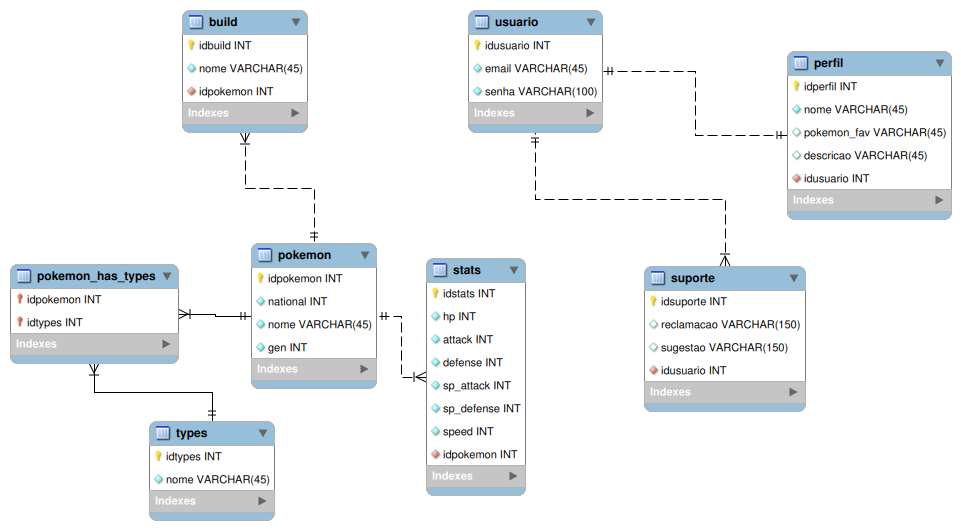
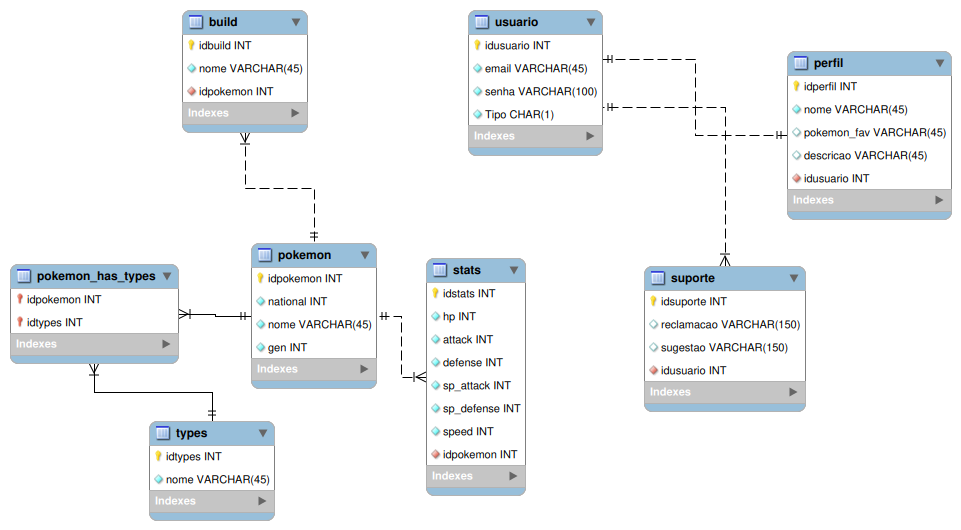
Adicionei o campo tipo no banco

Changed region(s): [[0.4683, 0.1811, 0.6556, 0.3019], [0.6243, 0.0906, 0.6556, 0.1509]]

diff --git a/pokedex atualizada/codigo/insertPokemon.php b/pokedex atualizada/codigo/insertPokemon.php
@@ -1,168 +1,3 @@
--- MySQL Script generated by MySQL Workbench
--- qui 12 jun 2025 10:21:16
--- Model: New Model    Version: 1.0
--- MySQL Workbench Forward Engineering
-
-SET @OLD_UNIQUE_CHECKS=@@UNIQUE_CHECKS, UNIQUE_CHECKS=0;
-SET @OLD_FOREIGN_KEY_CHECKS=@@FOREIGN_KEY_CHECKS, FOREIGN_KEY_CHECKS=0;
-SET @OLD_SQL_MODE=@@SQL_MODE, SQL_MODE='ONLY_FULL_GROUP_BY,STRICT_TRANS_TABLES,NO_ZERO_IN_DATE,NO_ZERO_DATE,ERROR_FOR_DIVISION_BY_ZERO,NO_ENGINE_SUBSTITUTION';
-
--- -----------------------------------------------------
--- Schema mydb
--- -----------------------------------------------------
-
--- -----------------------------------------------------
--- Schema mydb
--- -----------------------------------------------------
-CREATE SCHEMA IF NOT EXISTS `mydb` DEFAULT CHARACTER SET utf8 ;
-USE `mydb` ;
-
--- -----------------------------------------------------
--- Table `mydb`.`pokemon`
--- -----------------------------------------------------
-CREATE TABLE IF NOT EXISTS `mydb`.`pokemon` (
-  `idpokemon` INT NOT NULL AUTO_INCREMENT,
-  `national` INT NOT NULL,
-  `nome` VARCHAR(45) NOT NULL,
-  `gen` INT NOT NULL,
-  PRIMARY KEY (`idpokemon`),
-  UNIQUE INDEX `idpokemon_UNIQUE` (`idpokemon` ASC) VISIBLE,
-  UNIQUE INDEX `national_UNIQUE` (`national` ASC) VISIBLE)
-ENGINE = InnoDB;
-
-
--- -----------------------------------------------------
--- Table `mydb`.`stats`
--- -----------------------------------------------------
-CREATE TABLE IF NOT EXISTS `mydb`.`stats` (
-  `idstats` INT NOT NULL AUTO_INCREMENT,
-  `hp` INT NOT NULL,
-  `attack` INT NOT NULL,
-  `defense` INT NOT NULL,
-  `sp_attack` INT NOT NULL,
-  `sp_defense` INT NOT NULL,
-  `speed` INT NOT NULL,
-  `idpokemon` INT NOT NULL,
-  PRIMARY KEY (`idstats`),
-  UNIQUE INDEX `idstats_UNIQUE` (`idstats` ASC) VISIBLE,
-  INDEX `fk_stats_pokemon1_idx` (`idpokemon` ASC) VISIBLE,
-  CONSTRAINT `fk_stats_pokemon1`
-    FOREIGN KEY (`idpokemon`)
-    REFERENCES `mydb`.`pokemon` (`idpokemon`)
-    ON DELETE NO ACTION
-    ON UPDATE NO ACTION)
-ENGINE = InnoDB;
-
-
--- -----------------------------------------------------
--- Table `mydb`.`types`
--- -----------------------------------------------------
-CREATE TABLE IF NOT EXISTS `mydb`.`types` (
-  `idtypes` INT NOT NULL AUTO_INCREMENT,
-  `nome` VARCHAR(45) NOT NULL,
-  PRIMARY KEY (`idtypes`),
-  UNIQUE INDEX `idtypes_UNIQUE` (`idtypes` ASC) VISIBLE)
-ENGINE = InnoDB;
-
-
--- -----------------------------------------------------
--- Table `mydb`.`build`
--- -----------------------------------------------------
-CREATE TABLE IF NOT EXISTS `mydb`.`build` (
-  `idbuild` INT NOT NULL AUTO_INCREMENT,
-  `nome` VARCHAR(45) NOT NULL,
-  `idpokemon` INT NOT NULL,
-  PRIMARY KEY (`idbuild`),
-  UNIQUE INDEX `idbuild_UNIQUE` (`idbuild` ASC) VISIBLE,
-  INDEX `fk_build_pokemon1_idx` (`idpokemon` ASC) VISIBLE,
-  CONSTRAINT `fk_build_pokemon1`
-    FOREIGN KEY (`idpokemon`)
-    REFERENCES `mydb`.`pokemon` (`idpokemon`)
-    ON DELETE NO ACTION
-    ON UPDATE NO ACTION)
-ENGINE = InnoDB;
-
-
--- -----------------------------------------------------
--- Table `mydb`.`usuario`
--- -----------------------------------------------------
-CREATE TABLE IF NOT EXISTS `mydb`.`usuario` (
-  `idusuario` INT NOT NULL AUTO_INCREMENT,
-  `email` VARCHAR(45) NOT NULL,
-  `senha` VARCHAR(100) NOT NULL,
-  `Tipo` CHAR(1) NOT NULL,
-  PRIMARY KEY (`idusuario`),
-  UNIQUE INDEX `idusuario_UNIQUE` (`idusuario` ASC) VISIBLE,
-  UNIQUE INDEX `email_UNIQUE` (`email` ASC) VISIBLE)
-ENGINE = InnoDB;
-
-
--- -----------------------------------------------------
--- Table `mydb`.`pokemon_has_types`
--- -----------------------------------------------------
-CREATE TABLE IF NOT EXISTS `mydb`.`pokemon_has_types` (
-  `idpokemon` INT NOT NULL,
-  `idtypes` INT NOT NULL,
-  PRIMARY KEY (`idpokemon`, `idtypes`),
-  INDEX `fk_pokemon_has_types_types1_idx` (`idtypes` ASC) VISIBLE,
-  INDEX `fk_pokemon_has_types_pokemon_idx` (`idpokemon` ASC) VISIBLE,
-  CONSTRAINT `fk_pokemon_has_types_pokemon`
-    FOREIGN KEY (`idpokemon`)
-    REFERENCES `mydb`.`pokemon` (`idpokemon`)
-    ON DELETE NO ACTION
-    ON UPDATE NO ACTION,
-  CONSTRAINT `fk_pokemon_has_types_types1`
-    FOREIGN KEY (`idtypes`)
-    REFERENCES `mydb`.`types` (`idtypes`)
-    ON DELETE NO ACTION
-    ON UPDATE NO ACTION)
-ENGINE = InnoDB;
-
-
--- -----------------------------------------------------
--- Table `mydb`.`perfil`
--- -----------------------------------------------------
-CREATE TABLE IF NOT EXISTS `mydb`.`perfil` (
-  `idperfil` INT NOT NULL AUTO_INCREMENT,
-  `nome` VARCHAR(45) NOT NULL,
-  `pokemon_fav` VARCHAR(45) NULL,
-  `descricao` VARCHAR(45) NULL,
-  `idusuario` INT NOT NULL,
-  PRIMARY KEY (`idperfil`),
-  UNIQUE INDEX `idperfil_UNIQUE` (`idperfil` ASC) VISIBLE,
-  UNIQUE INDEX `nome_UNIQUE` (`nome` ASC) VISIBLE,
-  INDEX `fk_perfil_usuario1_idx` (`idusuario` ASC) VISIBLE,
-  CONSTRAINT `fk_perfil_usuario1`
-    FOREIGN KEY (`idusuario`)
-    REFERENCES `mydb`.`usuario` (`idusuario`)
-    ON DELETE NO ACTION
-    ON UPDATE NO ACTION)
-ENGINE = InnoDB;
-
-
--- -----------------------------------------------------
--- Table `mydb`.`suporte`
--- -----------------------------------------------------
-CREATE TABLE IF NOT EXISTS `mydb`.`suporte` (
-  `idsuporte` INT NOT NULL AUTO_INCREMENT,
-  `reclamacao` VARCHAR(150) NULL,
-  `sugestao` VARCHAR(150) NULL,
-  `idusuario` INT NOT NULL,
-  PRIMARY KEY (`idsuporte`),
-  UNIQUE INDEX `idsuporte_UNIQUE` (`idsuporte` ASC) VISIBLE,
-  INDEX `fk_suporte_usuario1_idx` (`idusuario` ASC) VISIBLE,
-  CONSTRAINT `fk_suporte_usuario1`
-    FOREIGN KEY (`idusuario`)
-    REFERENCES `mydb`.`usuario` (`idusuario`)
-    ON DELETE NO ACTION
-    ON UPDATE NO ACTION)
-ENGINE = InnoDB;
-
-
-SET SQL_MODE=@OLD_SQL_MODE;
-SET FOREIGN_KEY_CHECKS=@OLD_FOREIGN_KEY_CHECKS;
-SET UNIQUE_CHECKS=@OLD_UNIQUE_CHECKS;
-
 INSERT INTO types (nome) VALUES
 ('Normal'),
 ('Fire'),
